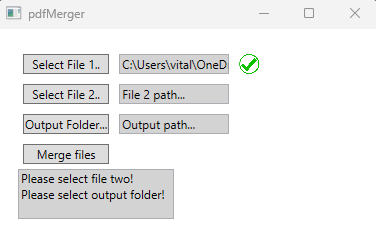
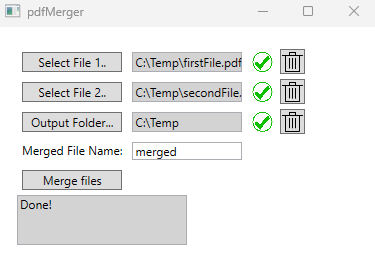
Output file name edit. Delete button for paths

diff --git a/pdfMergerUI/MainWindow.xaml b/pdfMergerUI/MainWindow.xaml
@@ -5,7 +5,7 @@
         xmlns:mc="http://schemas.openxmlformats.org/markup-compatibility/2006"
         xmlns:local="clr-namespace:pdfMergerUI"
         mc:Ignorable="d"
-        Title="pdfMerger" Height="250" Width="396">
+        Title="pdfMerger" Height="270" Width="396">
     <Grid>
         <Grid.ColumnDefinitions>
             <ColumnDefinition Width="20" />
@@ -13,11 +13,13 @@
             <ColumnDefinition Width="60" />
             <ColumnDefinition Width="60" />
             <ColumnDefinition Width="30" />
+            <ColumnDefinition Width="30" />
             <ColumnDefinition Width="*" />
             <ColumnDefinition Width="20" />
         </Grid.ColumnDefinitions>
         <Grid.RowDefinitions>
             <RowDefinition Height="20" />
+            <RowDefinition Height="auto" />
             <RowDefinition Height="auto" />
             <RowDefinition Height="auto" />
             <RowDefinition Height="auto" />
@@ -33,24 +35,43 @@
         <Button x:Name="outputPathButton" Content="Output Folder..." 
             Grid.Column="1" Grid.Row="3" Margin="5" Grid.ColumnSpan="1" Click="outputPathButton_Click"/>
         <Button x:Name="mergeFilesButton" Content="Merge files" 
-            Grid.Column="1" Grid.Row="4" Margin="5" Grid.ColumnSpan="1" Click="mergeFilesButton_Click"/>
+            Grid.Column="1" Grid.Row="5" Margin="5" Grid.ColumnSpan="1" Click="mergeFilesButton_Click"/>
 
         <TextBox x:Name="folderOnePath" Text="File 1 path..." IsReadOnly="True"  VerticalContentAlignment="Center"
                Grid.Column="2"  Grid.Row="1" Grid.ColumnSpan="2" Background="LightGray" Margin="5"/>
         <TextBox x:Name="folderTwoPath" Text="File 2 path..."  IsReadOnly="True"  VerticalContentAlignment="Center"
                Grid.Column="2" Grid.Row="2" Grid.ColumnSpan="2" Background="LightGray" Margin="5"/>
         <TextBox x:Name="outputFolderPath" Text="Output path..."  IsReadOnly="True"  VerticalContentAlignment="Center"
-               Grid.Column="2" Grid.Row="3" Grid.ColumnSpan="2" Background="LightGray" Margin="5"/>
+               Grid.Column="2" Grid.Row="3" Grid.ColumnSpan="2"  Background="LightGray" Margin="5"/>
+        <TextBox x:Name="MergedFileName" Text="merged"  IsReadOnly="False"  VerticalContentAlignment="Center"
+               Grid.Column="2" Grid.Row="4" Grid.ColumnSpan="2"  Margin="5"/>
+        <TextBlock x:Name ="FileName" Grid.Column="1" Grid.Row="4" Text="Merged File Name:" Margin="5"/>
 
-        <TextBox  x:Name="mergeResult" Grid.Column="1" Grid.Row="5" Grid.ColumnSpan="2" 
+        <TextBox  x:Name="mergeResult" Grid.Column="1" Grid.Row="6" Grid.ColumnSpan="2" 
                   IsReadOnly="True" Background="LightGray"/>
         
+        <!--Files and folders selected - check in image-->
         <Image x:Name="fileOneSelectedImage" Grid.Column="4" Grid.Row="1" Source="/images/file_selected.png"
                MaxWidth="30" MaxHeight="20" />
         <Image x:Name="fileTwoSelectedImage" Grid.Column="4" Grid.Row="2" Source="/images/file_selected.png"
                MaxWidth="30" MaxHeight="20"/>
         <Image x:Name="outputFolderSelectedImage" Grid.Column="4" Grid.Row="3" Source="/images/file_selected.png"
                MaxWidth="30" MaxHeight="20"/>
+        
+        <!--Delete selected links buttons-->
+        <Button x:Name="clearFileOnePathButton"  Grid.Column="5" Grid.Row="1" Margin="2,2,2,2"
+                MaxWidth="25" MaxHeight="25" Click="clearFileOnePathButton_Click" >
+            <Image Source="/images/delete_button.png"/>
+        </Button>
+        <Button x:Name="clearFileTwoPathButton"  Grid.Column="5" Grid.Row="2" Margin="2,2,2,2"
+                MaxWidth="25" MaxHeight="25" Click="clearFileTwoPathButton_Click" >
+            <Image Source="/images/delete_button.png"/>
+        </Button>
+        <Button x:Name="clearOutputPathButton"  Grid.Column="5" Grid.Row="3" Margin="2,2,2,2"
+                MaxWidth="25" MaxHeight="25" Click="clearOutputPathButton_Click" >
+            <Image Source="/images/delete_button.png"/>
+        </Button>
+
     </Grid>
 
 

diff --git a/pdfMergerUI/MainWindow.xaml.cs b/pdfMergerUI/MainWindow.xaml.cs
@@ -20,6 +20,10 @@ namespace pdfMergerUI
             fileTwoSelectedImage.Visibility = Visibility.Hidden;
             outputFolderSelectedImage.Visibility = Visibility.Hidden;
 
+            clearFileOnePathButton.Visibility = Visibility.Hidden;
+            clearFileTwoPathButton.Visibility = Visibility.Hidden;
+            clearOutputPathButton.Visibility = Visibility.Hidden;
+
         }
 
         private void fileOneButton_Click(object sender, RoutedEventArgs e)
@@ -34,6 +38,7 @@ namespace pdfMergerUI
                     folderOnePath.Text = pdfMerger.fileOnePath;
                     fileOneSelectedImage.Visibility = Visibility.Visible;
                     pdfMerger.fileOneSelected = true;
+                    clearFileOnePathButton.Visibility=Visibility.Visible;
                 }
                 
 
@@ -52,6 +57,7 @@ namespace pdfMergerUI
                     folderTwoPath.Text = pdfMerger.fileTwoPath;
                     fileTwoSelectedImage.Visibility = Visibility.Visible;
                     pdfMerger.fileTwoSelected = true;
+                    clearFileTwoPathButton.Visibility = Visibility.Visible;
                 }
             }
         }
@@ -69,13 +75,15 @@ namespace pdfMergerUI
                     outputFolderPath.Text = pdfMerger.outputPath;
                     outputFolderSelectedImage.Visibility = Visibility.Visible;
                     pdfMerger.outputPathSelected = true;
+                    clearOutputPathButton.Visibility = Visibility.Visible;
                 }
             }
         }
 
         private void mergeFilesButton_Click(object sender, RoutedEventArgs e)
         {
-            if (pdfMerger.fileOneSelected && pdfMerger.fileTwoSelected && pdfMerger.outputPathSelected)
+            pdfMerger.mergedFileName = MergedFileName.Text+".pdf";
+            if (pdfMerger.fileOneSelected && pdfMerger.fileTwoSelected && pdfMerger.outputPathSelected && pdfMerger.mergedFileName!=string.Empty)
             {
                 pdfMerger.mergePdfFiles();
                 if (pdfMerger.error)
@@ -101,6 +109,34 @@ namespace pdfMergerUI
                     mergeResult.Text += "Please select output folder! ";
             }
 
+        }
+
+        private void clearFileOnePathButton_Click(object sender, RoutedEventArgs e)
+        {
+            pdfMerger.fileOnePath = string.Empty;
+            folderOnePath.Text = "File 1 path...";
+            pdfMerger.fileOneSelected = false;
+            clearFileOnePathButton.Visibility = Visibility.Hidden;
+            fileOneSelectedImage.Visibility = Visibility.Hidden;
+        }
+
+        private void clearFileTwoPathButton_Click(object sender, RoutedEventArgs e)
+        {
+            pdfMerger.fileTwoPath = string.Empty;
+            folderTwoPath.Text = "File 2 path...";
+            pdfMerger.fileTwoSelected = false;
+            clearFileTwoPathButton.Visibility = Visibility.Hidden;
+            fileTwoSelectedImage.Visibility = Visibility.Hidden;
+
+        }
+
+        private void clearOutputPathButton_Click(object sender, RoutedEventArgs e)
+        {
+            pdfMerger.outputPath = string.Empty;
+            outputFolderPath.Text = "Output path...";
+            pdfMerger.outputPathSelected = false;
+            clearOutputPathButton.Visibility = Visibility.Hidden;
+            outputFolderSelectedImage.Visibility = Visibility.Hidden;
         }
     }
 }

diff --git a/pdfMergerClassLibrary/pdfMerger.cs b/pdfMergerClassLibrary/pdfMerger.cs
@@ -14,7 +14,7 @@ namespace pdfMergerClassLibrary
         public static bool fileTwoSelected { get; set; }
         public static string outputPath { get; set; }
         public static bool outputPathSelected { get; set; }
-        public static string defaultFileName { get; set; } = "merged.pdf";
+        public static string mergedFileName { get; set; } = "merged.pdf";
         public static bool error { get; set; } = false;
         public static string errorMessage="Done! No error";
         public static void mergePdfFiles ()
@@ -28,7 +28,7 @@ namespace pdfMergerClassLibrary
                     PdfDocument pdf = PdfReader.Open(pdfFile, PdfDocumentOpenMode.Import);
                     CopyPages(pdf, outPdf);
                 }
-                outPdf.Save(outputPath + "\\" + defaultFileName);
+                outPdf.Save(outputPath + "\\" + mergedFileName);
             }
             catch (Exception e)
             {

diff --git a/pdfMergerUI/Properties/Resources.Designer.cs b/pdfMergerUI/Properties/Resources.Designer.cs
@@ -63,6 +63,16 @@ namespace pdfMergerUI.Properties {
         /// <summary>
         ///   Looks up a localized resource of type System.Drawing.Bitmap.
         /// </summary>
+        internal static System.Drawing.Bitmap delete_button {
+            get {
+                object obj = ResourceManager.GetObject("delete_button", resourceCulture);
+                return ((System.Drawing.Bitmap)(obj));
+            }
+        }
+        
+        /// <summary>
+        ///   Looks up a localized resource of type System.Drawing.Bitmap.
+        /// </summary>
         internal static System.Drawing.Bitmap file_selected {
             get {
                 object obj = ResourceManager.GetObject("file_selected", resourceCulture);
